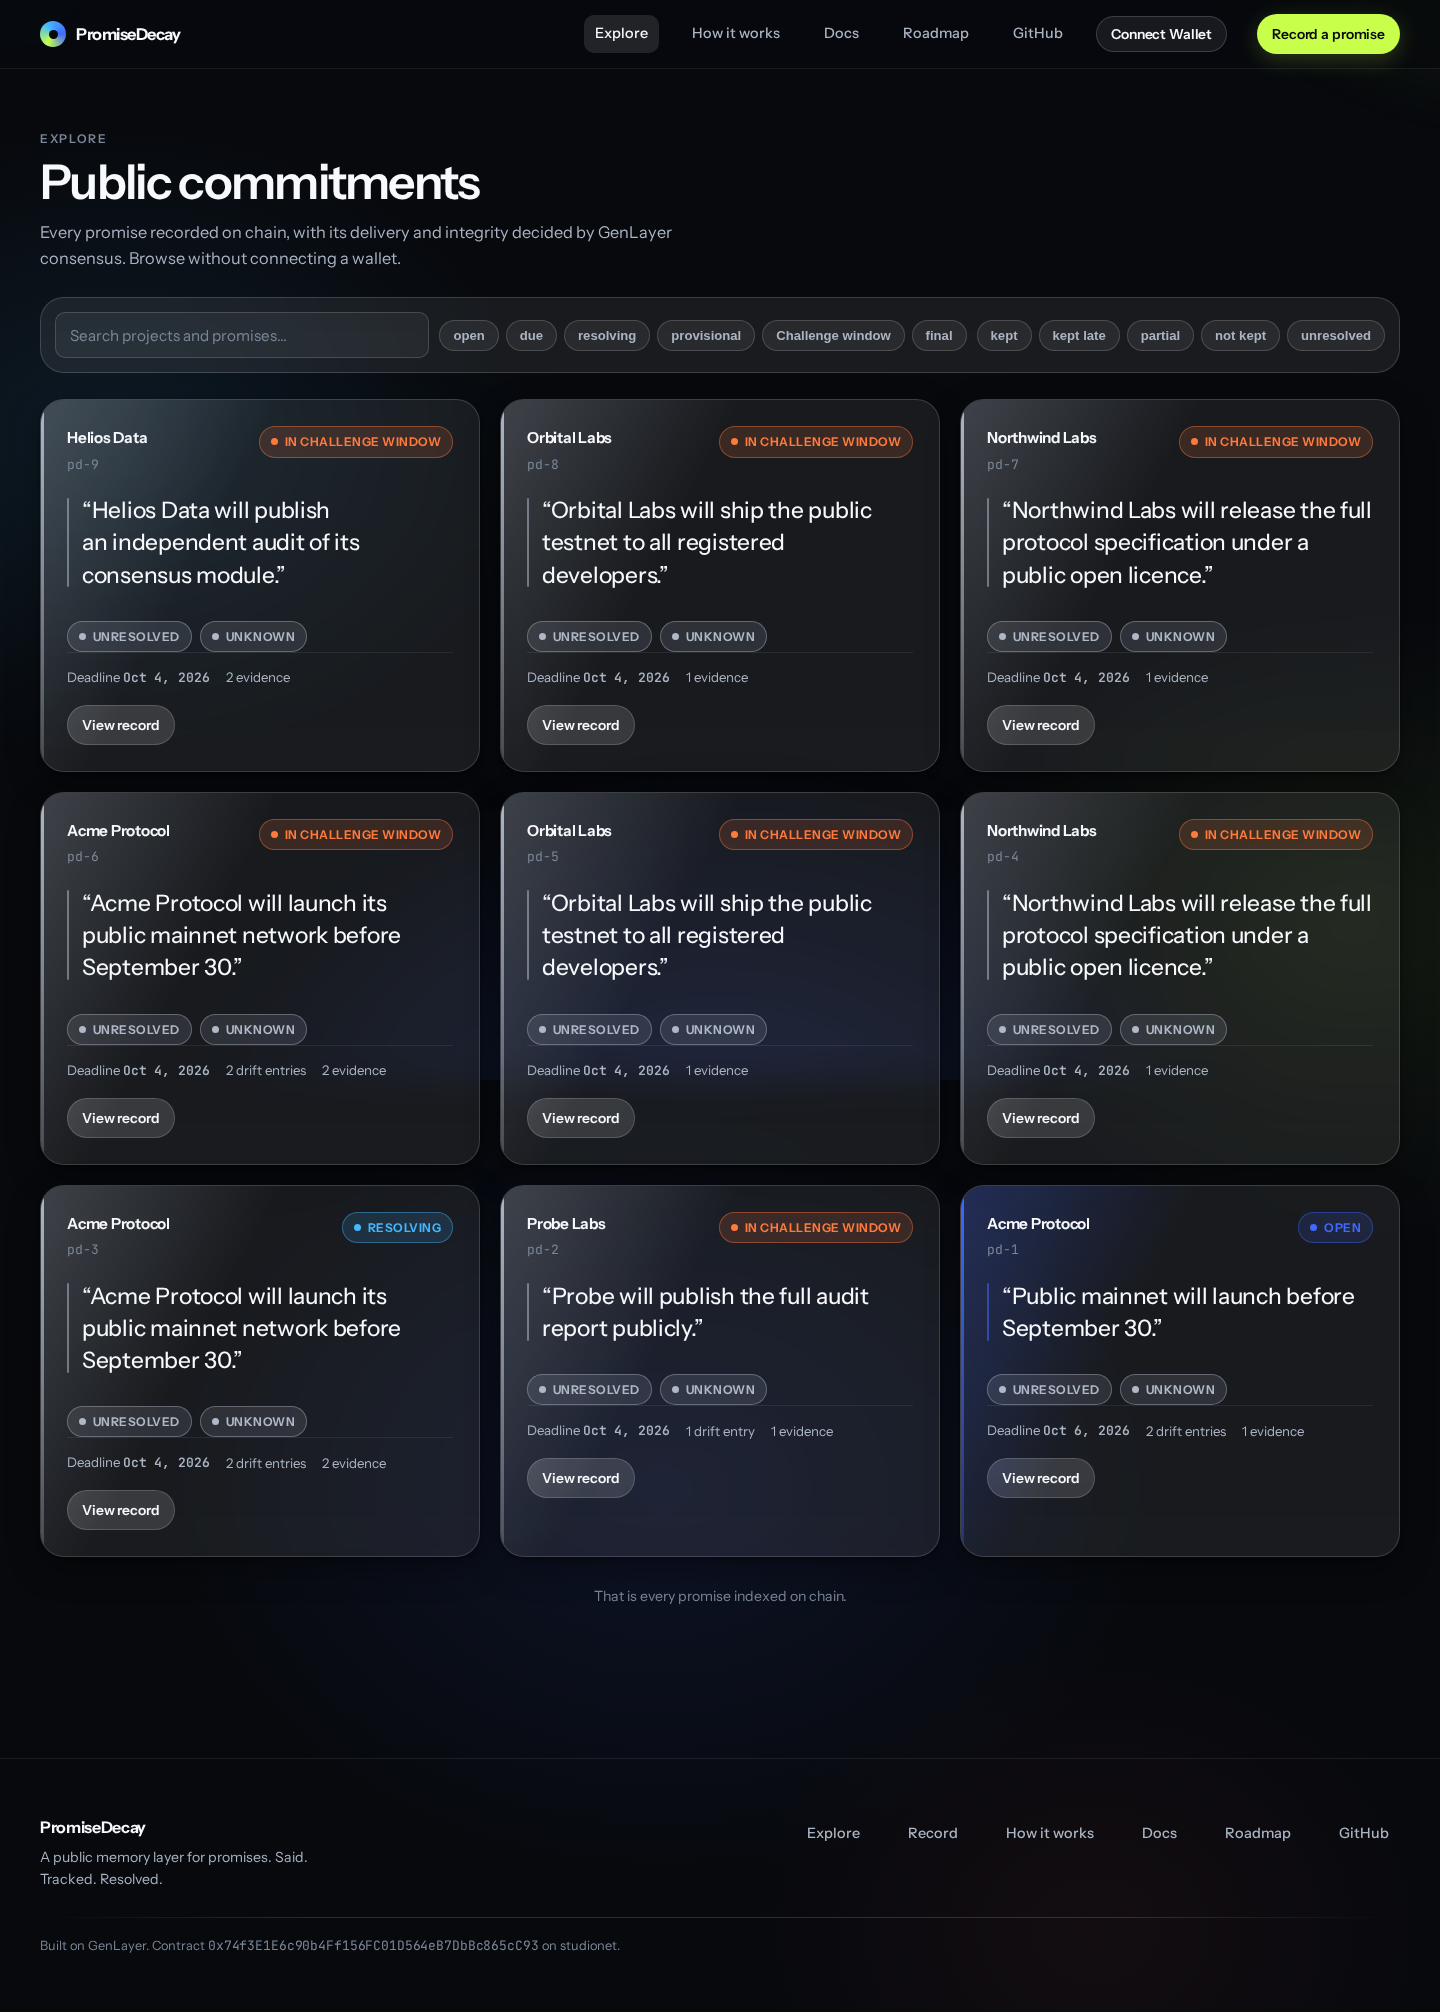
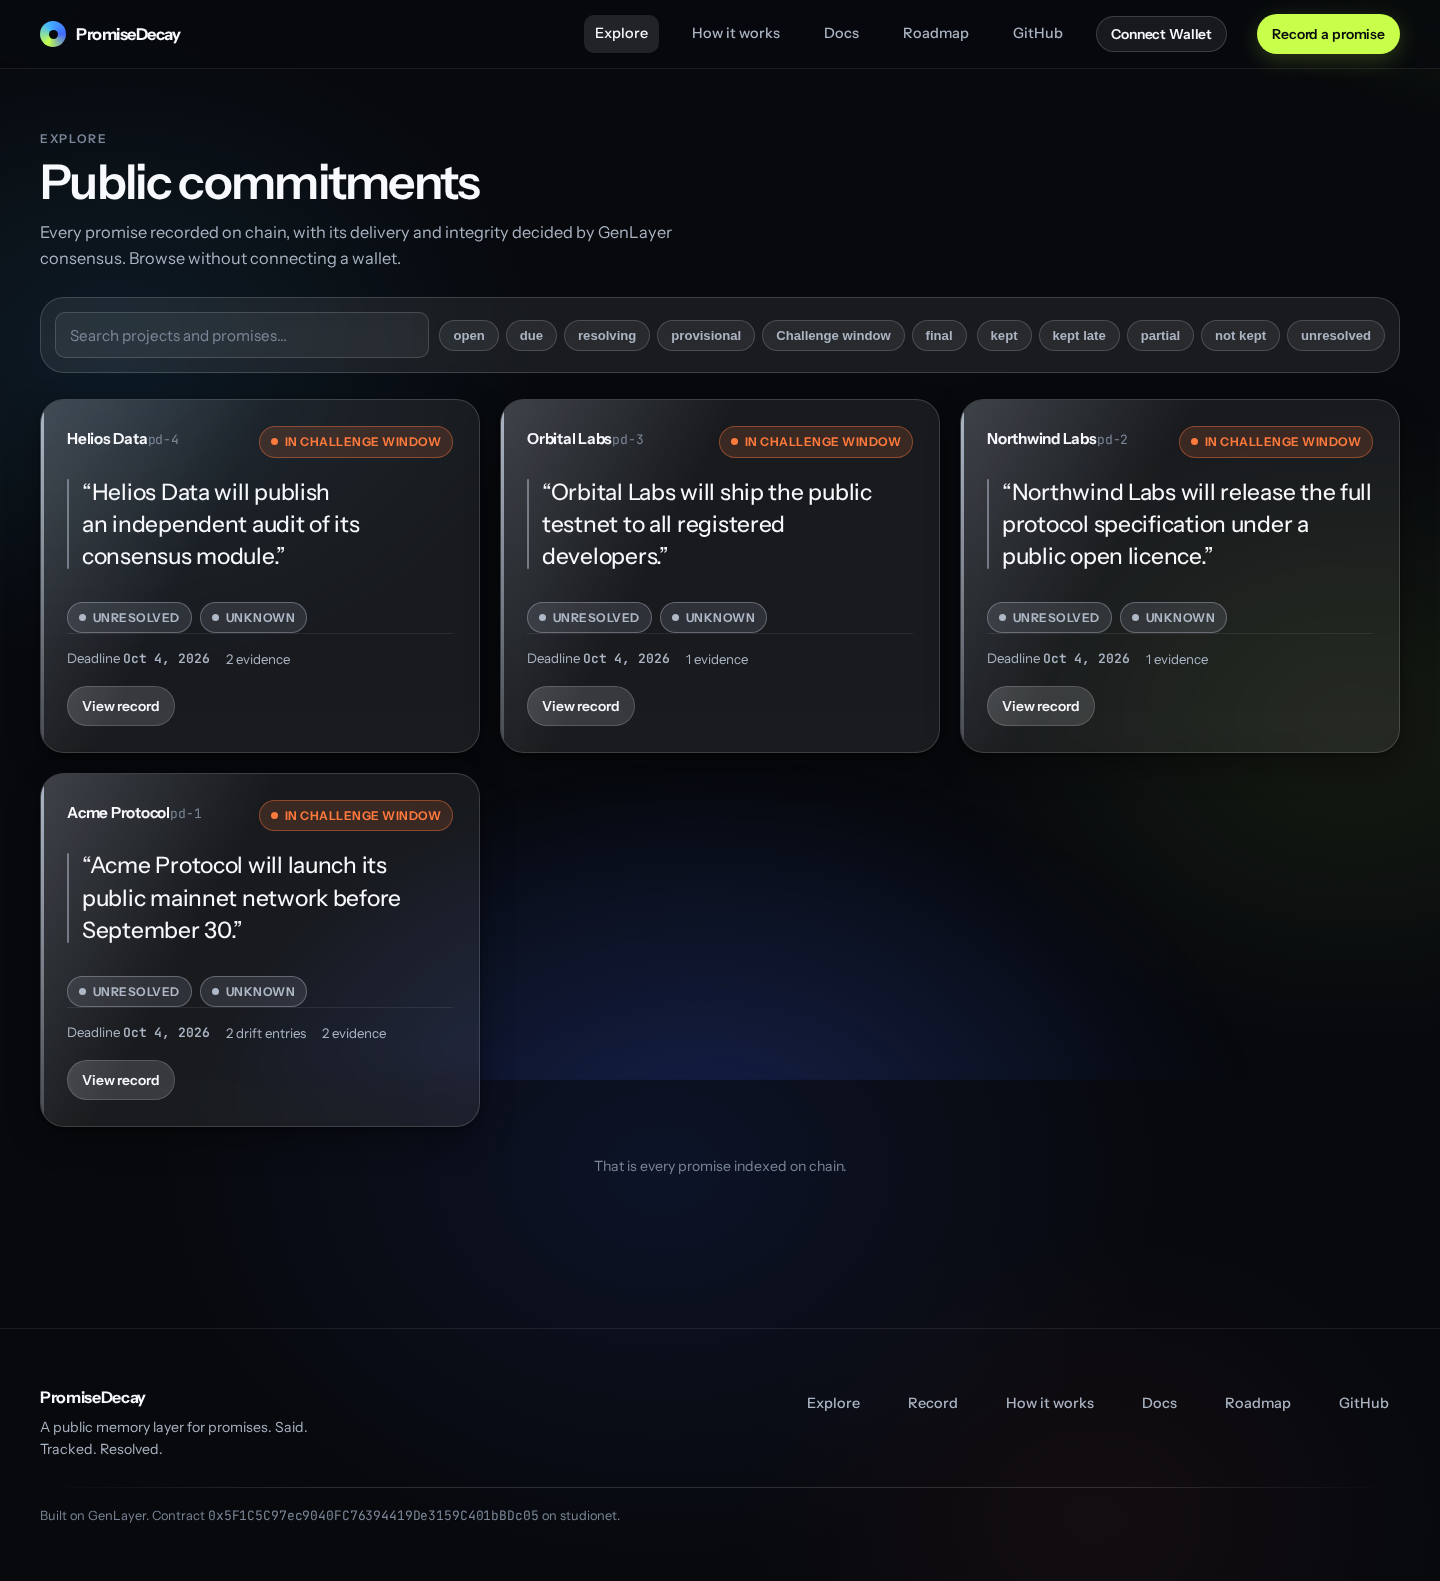
Make certification survive a flaky gateway; refresh screenshots
The public Studio endpoint intermittently answers with an HTML error page
instead of JSON, which surfaces as a JSON parse error rather than a rate
limit. Certification treated that as fatal and abandoned the run; it now
retries transient transport failures the same way it retries throttling.

Read certification against 0x5F1C5C97ec9040FC76394419De3159C401bBDc05:
23/23 PASS, 4 promises reconciled. Chain 4 = database 4 = API 4.

diff --git a/docs/CERTIFICATION.md b/docs/CERTIFICATION.md
@@ -8,25 +8,25 @@ Generated by `node scripts/certify.mjs`. Write methods are listed but never call
 
 | `get_version` | — | "1.0.0" | "1.0.0" | **PASS** |
 | `get_config` | — | object with contract_version + enums | v1.0.0, 5 delivery, 5 integrity | **PASS** |
-| `get_promise_count` | — | integer > 0 | 9 | **PASS** |
-| `get_all_promise_ids` | — | array of ids | [1,2,3,4,5,6,7,8,9] | **PASS** |
-| `get_promise` | 1 | object with original_quote | project=Acme Protocol, quote=Public mainnet will launch before … | **PASS** |
-| `get_created_at` | 1 | integer > 0 | 1791074391 | **PASS** |
-| `get_deadline_at` | 1 | integer > 0 | 1791247190 | **PASS** |
-| `get_lifecycle_status` | 1 | lifecycle enum | OPEN | **PASS** |
+| `get_promise_count` | — | integer > 0 | 4 | **PASS** |
+| `get_all_promise_ids` | — | array of ids | [1,2,3,4] | **PASS** |
+| `get_promise` | 1 | object with original_quote | project=Acme Protocol, quote=Acme Protocol will launch its publ… | **PASS** |
+| `get_created_at` | 1 | integer > 0 | 1791097638 | **PASS** |
+| `get_deadline_at` | 1 | integer > 0 | 1791097682 | **PASS** |
+| `get_lifecycle_status` | 1 | lifecycle enum | CHALLENGE_WINDOW | **PASS** |
 | `get_drift_count` | 1 | integer >= 1 | 2 | **PASS** |
 | `get_drift` | 1 | JSON array, non-empty | [2 entries] | **PASS** |
 | `get_drift` | 1 (empty id) | JSON array | [] | **PASS** |
-| `get_evidence_count` | 1 | integer >= 1 | 1 | **PASS** |
-| `get_evidence` | 1 | JSON array, non-empty | [1 entries] | **PASS** |
+| `get_evidence_count` | 1 | integer >= 1 | 2 | **PASS** |
+| `get_evidence` | 1 | JSON array, non-empty | [2 entries] | **PASS** |
 | `get_response_count` | 1 | integer >= 0 | 1 | **PASS** |
 | `get_responses` | 1 | JSON array | [1 entries] | **PASS** |
 | `get_responses` | 1 verified flag | verified=false in V1 | verified=false | **PASS** |
-| `get_challenge_count` | 1 | integer >= 0 | 0 | **PASS** |
-| `get_challenges` | 1 | JSON array | [0 entries] | **PASS** |
-| `get_challenge_window` | 1 | object with window_seconds | closes=0, window=604800s | **PASS** |
-| `get_provisional_result` | 1 | result object, or UserError when unresolved | UserError: Missing or invalid parameters. | **PASS** |
-| `get_provisional_result` | 1 (resolved) | closed enums + explanation | UNRESOLVED/UNKNOWN · There is no evidence that … | **PASS** |
+| `get_challenge_count` | 1 | integer >= 0 | 1 | **PASS** |
+| `get_challenges` | 1 | JSON array | [1 entries] | **PASS** |
+| `get_challenge_window` | 1 | object with window_seconds | closes=1791703038, window=604800s | **PASS** |
+| `get_provisional_result` | 1 | result object, or UserError when unresolved | UNRESOLVED/UNKNOWN | **PASS** |
+| `get_provisional_result` | 1 (resolved) | closed enums + explanation | UNRESOLVED/UNKNOWN · The provided evidence cons… | **PASS** |
 | `get_final_result` | 1 | UserError (no promise is FINAL yet) | UserError: Missing or invalid parameters. | **PASS** |
 | `get_promise` | 999999 (nonexistent) | raises rather than returning a default | refused: Missing or invalid parameters. | **PASS** |
 
@@ -45,4 +45,4 @@ Generated by `node scripts/certify.mjs`. Write methods are listed but never call
 
 ## Chain state at certification
 
-Contract reports **9** promises. Promise ids: 1, 2, 3, 4, 5, 6, 7, 8, 9
+Contract reports **4** promises. Promise ids: 1, 2, 3, 4
